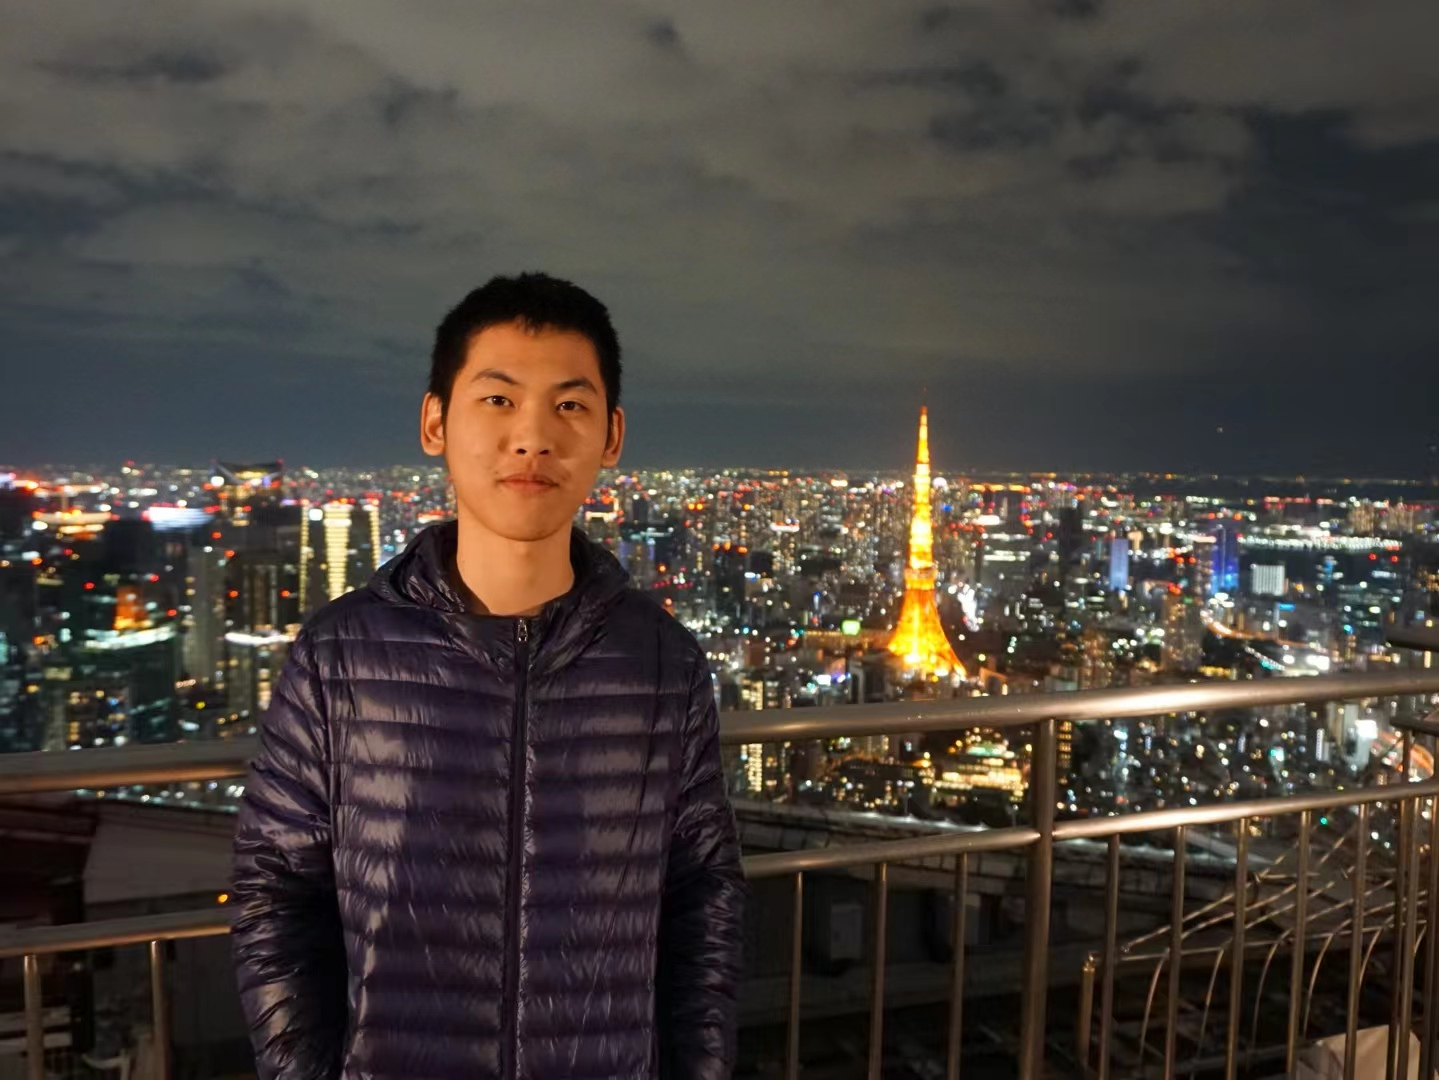
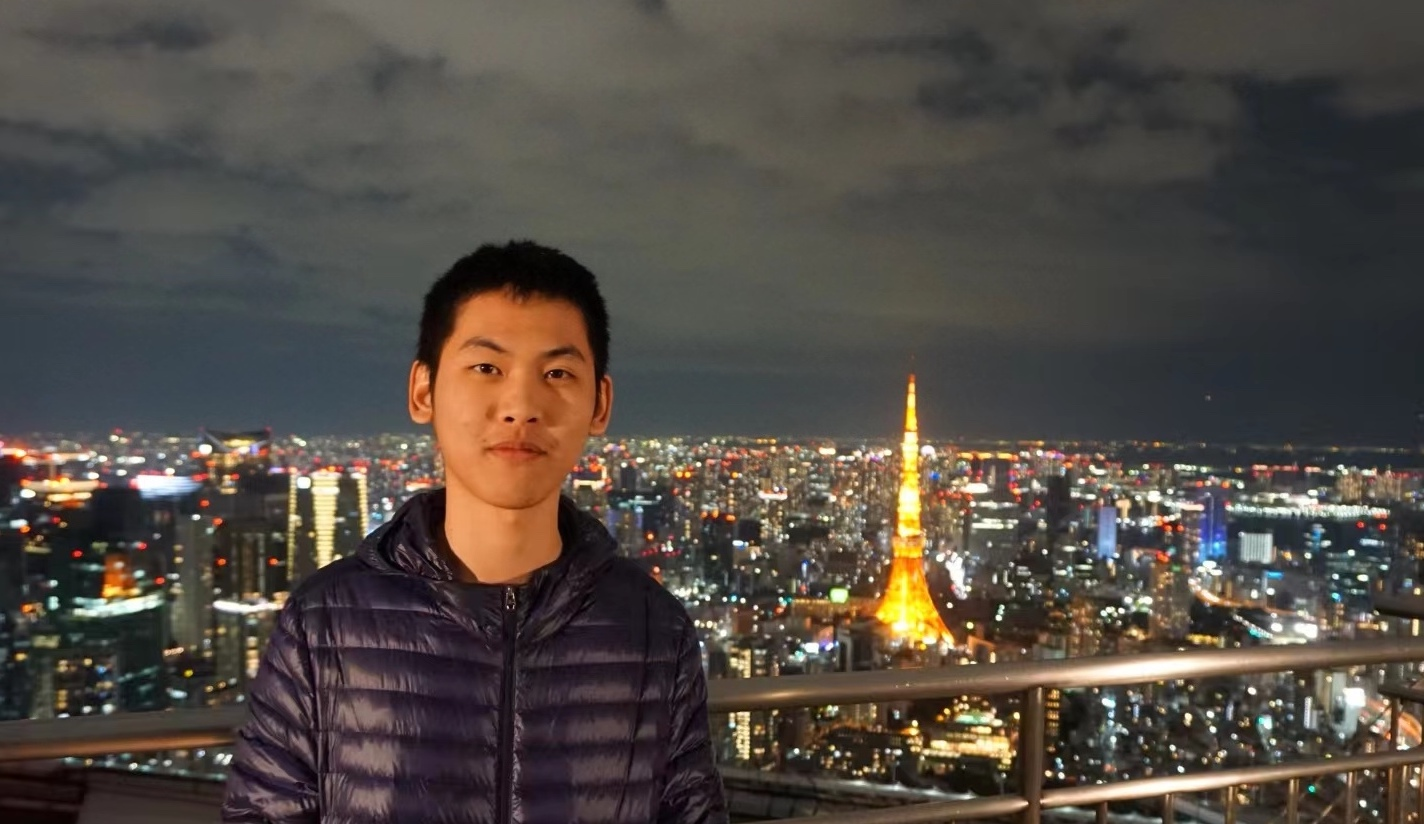
update

diff --git a/index.html b/index.html
@@ -66,8 +66,8 @@
 						<!-- Intro -->
 							<article id="intro">
 								<h2 class="major">About me</h2>
-								<!-- <span class="image main"><img src="images/profile.jpeg" alt="" /></span> -->
-                                <p style="text-align:center;"> <img src="images/profile.jpeg" width="50%"></p>
+								<span class="image main"><img src="images/profile.jpeg" alt="" /></span>
+                                <!-- <p style="text-align:center;"> <img src="images/profile.jpeg" width="50%"></p> -->
 								<p>I'm currently a second year graduate student at Department of Astronomy, Tsinghua University, advised by Prof. Zheng Cai. 
                                     Prior to that, I got my bachelor's degree in Aerospace Enginnering at School of Aeronautics and Astronautics, 
                                     Sichuan University, with an honor degree in top-notch program. I spent one and half month at UC Berkeley in 
